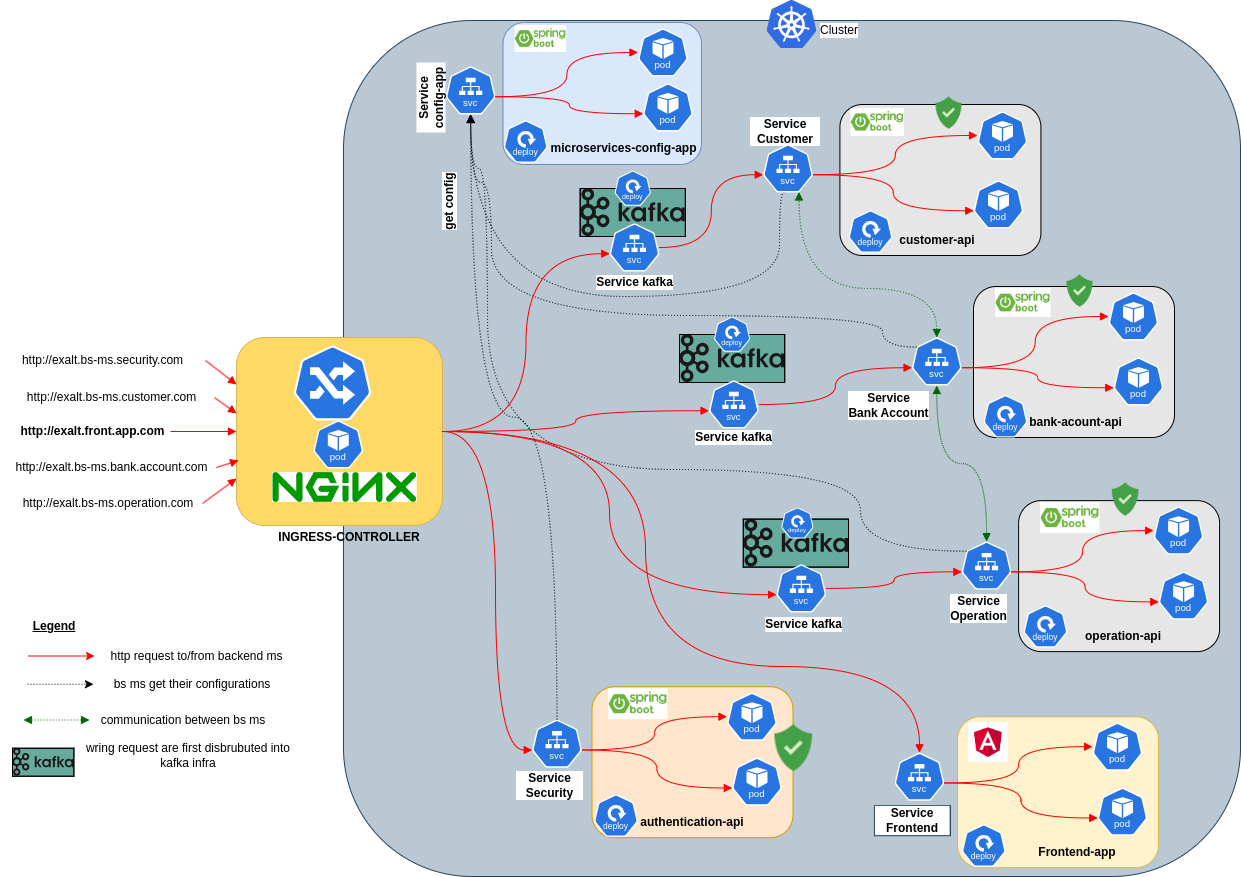
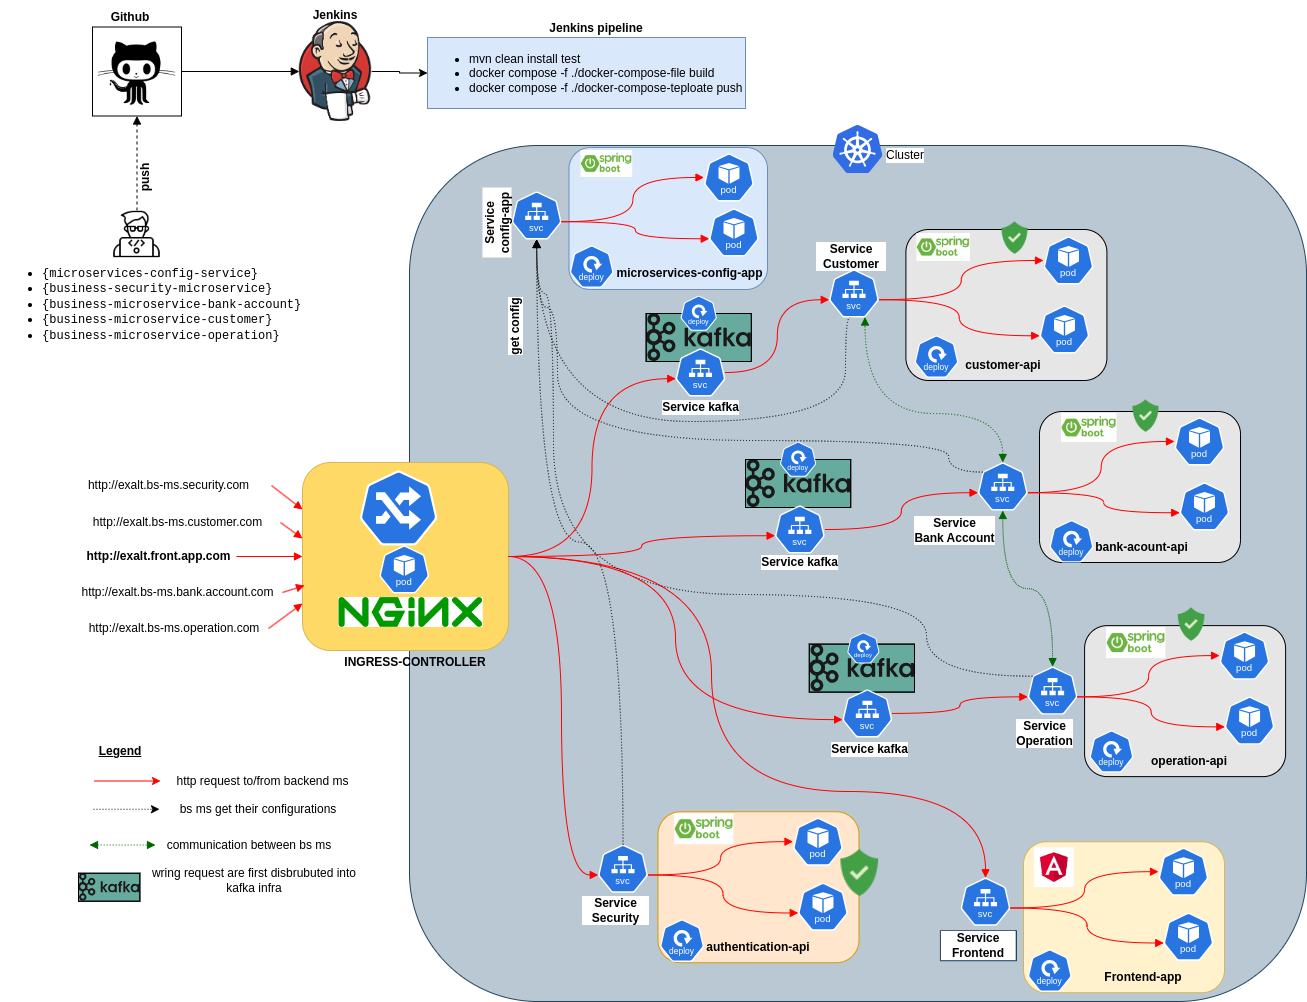
Feature/ci cd jenkins (#19)
* feat(): jenkins pipeline

* feat(): jenkins pipeline

* feat(): jenkins pipeline

* feat(): jenkins pipeline

* feat(): jenkins pipeline

* feat(): jenkins pipeline

* feat(): jenkins pipeline

* refac(Jenkinsfile): refactor Jenkinsfile

* refac(Jenkinsfile): refactor Jenkinsfile

* refac(Jenkinsfile): refactor Jenkinsfile

* refac(Jenkinsfile): refactor Jenkinsfile

* feat(docker-compose-images-template.yml): removing registration server

* feat(docker-compose-images-template.yml): removing registration server

* feat(docker-compose-images-template.yml): removing registration server

* feat(docker-compose-images-template.yml): removing registration server

* feat(docker-compose-images-template.yml): removing registration server

* feat(docker-compose-images-template.yml): removing registration server

diff --git a/exalt-frontend/src/app/accueil/accueil1/accueil1.component.html b/exalt-frontend/src/app/accueil/accueil1/accueil1.component.html
@@ -40,6 +40,6 @@
     </ng-template>
     
     <ng-template pTemplate>
-        <img ngSrc="assets/before-k8s.png" width="1300" height="750" alt="microservices base application demo">
+        <img ngSrc="assets/before-k8s.png" width="1300" height="790" alt="microservices base application demo">
     </ng-template>
 </p-splitter>
